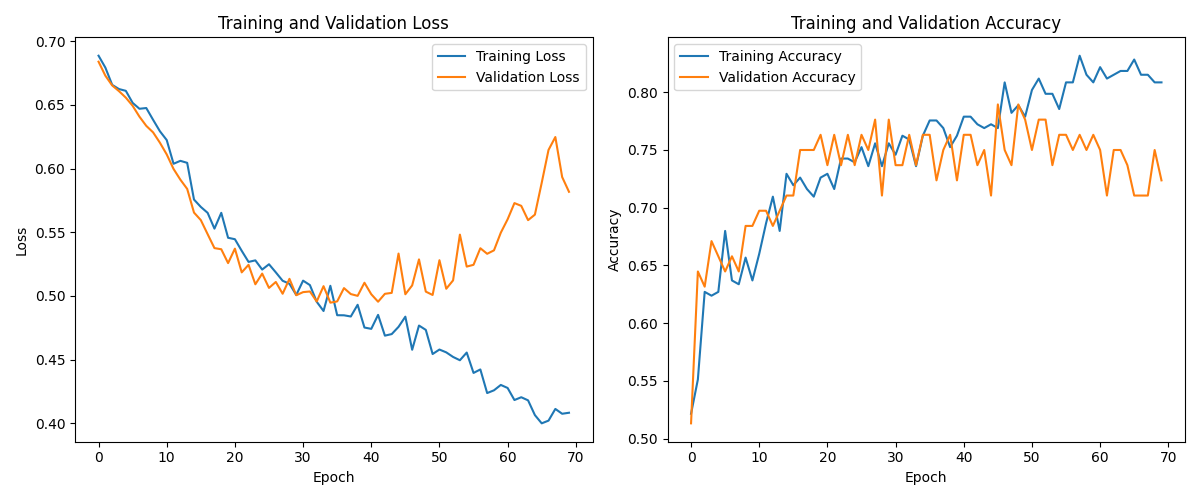
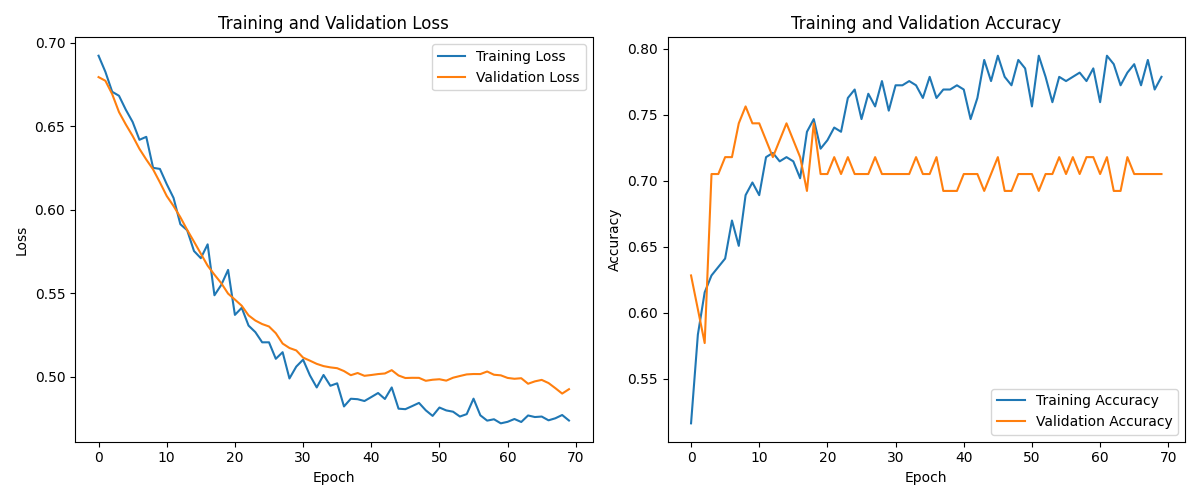
hyperpara fPREDICTION_HORIZON

diff --git a/stock_prediction_lstm.py b/stock_prediction_lstm.py
@@ -15,9 +15,10 @@ tf.random.set_seed(42)
 
 # Parameters
 LAG_WINDOW = 15  # Size of the lag window (Δd)
+PREDICTION_HORIZON = 1  # Number of days to look ahead for prediction
 TEST_SIZE = 0.2  # Proportion of data to use for testing
-USE_SENTIMENT = True  # Switch to toggle sentiment feature
-# USE_SENTIMENT = False  # Switch to toggle sentiment feature
+# USE_SENTIMENT = True  # Switch to toggle sentiment feature
+USE_SENTIMENT = False  # Switch to toggle sentiment feature
 
 # Model hyperparameters
 LEARNING_RATE = 0.001  # Learning rate for Adam optimizer
@@ -92,18 +93,18 @@ def add_technical_indicators(df):
     
     return df
 
-def create_sequences(data, lag_window):
-    """Create sequences for LSTM model to predict the overall movement for the next 15 days."""
+def create_sequences(data, lag_window, prediction_horizon):
+    """Create sequences for LSTM model to predict the overall movement for the next N days."""
     X, y = [], []
     
-    for i in range(len(data) - lag_window - 15):
+    for i in range(len(data) - lag_window - prediction_horizon):
         # Input sequence: features from days i to i+lag_window-1
         seq = data[i:i+lag_window].values
         
-        # Target: overall movement direction for the next 15 days
-        # Calculate if the price after 15 days is higher than the current price
+        # Target: overall movement direction for the next prediction_horizon days
+        # Calculate if the price after prediction_horizon days is higher than the current price
         current_close = data['close_price'].iloc[i+lag_window-1]
-        future_close = data['close_price'].iloc[i+lag_window+14]  # +14 to get 15 days ahead
+        future_close = data['close_price'].iloc[i+lag_window+prediction_horizon-1]
         
         # 1 if overall movement is positive, 0 if negative or flat
         target = 1 if future_close > current_close else 0
@@ -150,7 +151,9 @@ def build_model(input_shape):
 def main():
     # Load and prepare data
     print("Loading and preparing data...")
-    data = load_and_prepare_data('dataset/AAPL.csv')
+    # data = load_and_prepare_data('dataset/AAPL.csv')
+    data = load_and_prepare_data('dataset/AMZN.csv')
+
     print(f"Data shape: {data.shape}")
     
     # Add technical indicators
@@ -183,7 +186,8 @@ def main():
     
     # Create sequences
     print("Creating sequences...")
-    X, y = create_sequences(data_scaled, LAG_WINDOW)
+    print(f"Using prediction horizon of {PREDICTION_HORIZON} days")
+    X, y = create_sequences(data_scaled, LAG_WINDOW, PREDICTION_HORIZON)
     print(f"X shape: {X.shape}, y shape: {y.shape}")
     
     # Display sample data
@@ -192,7 +196,7 @@ def main():
         print(f"Sequence {i+1}:")
         sample_df = pd.DataFrame(X[i], columns=features)
         print(sample_df)
-        print(f"Target y[{i}]: {y[i]} ({'Up' if y[i] == 1 else 'Down'})")
+        print(f"Target y[{i}]: {y[i]} ({'Up' if y[i] == 1 else 'Down'} over next {PREDICTION_HORIZON} days)")
         print()
     
     # Split into training and testing sets
@@ -267,7 +271,7 @@ def main():
     plt.figure(figsize=(15, 6))
     plt.plot(y_test[:sample_size], label='Actual Movement', marker='o')
     plt.plot(y_pred_binary[:sample_size], label='Predicted Movement', marker='x')
-    plt.title('Actual vs Predicted Stock Movements (Next Day)')
+    plt.title(f'Actual vs Predicted Stock Movements (Next {PREDICTION_HORIZON} Days)')
     plt.xlabel('Sample Index')
     plt.ylabel('Movement (1=Up, 0=Down)')
     plt.legend()
